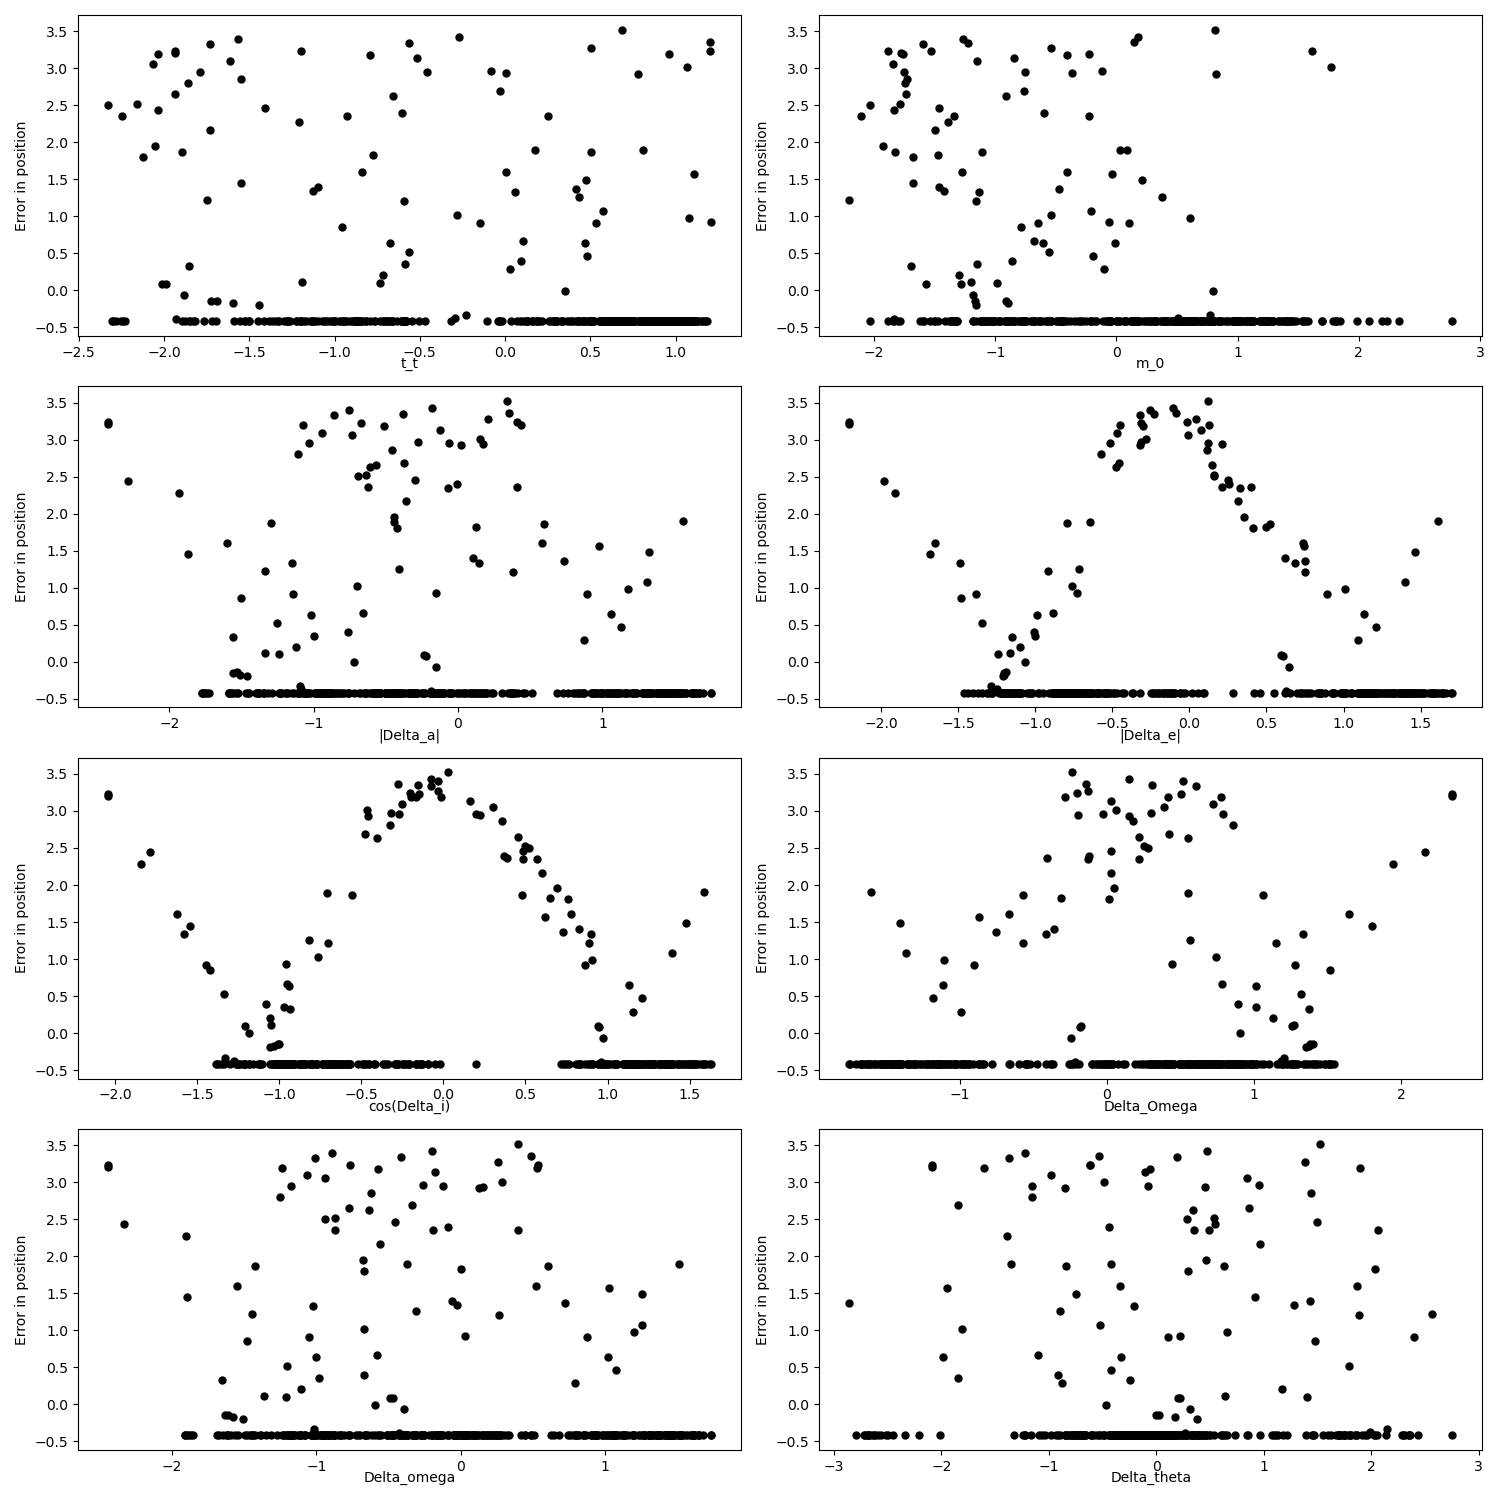
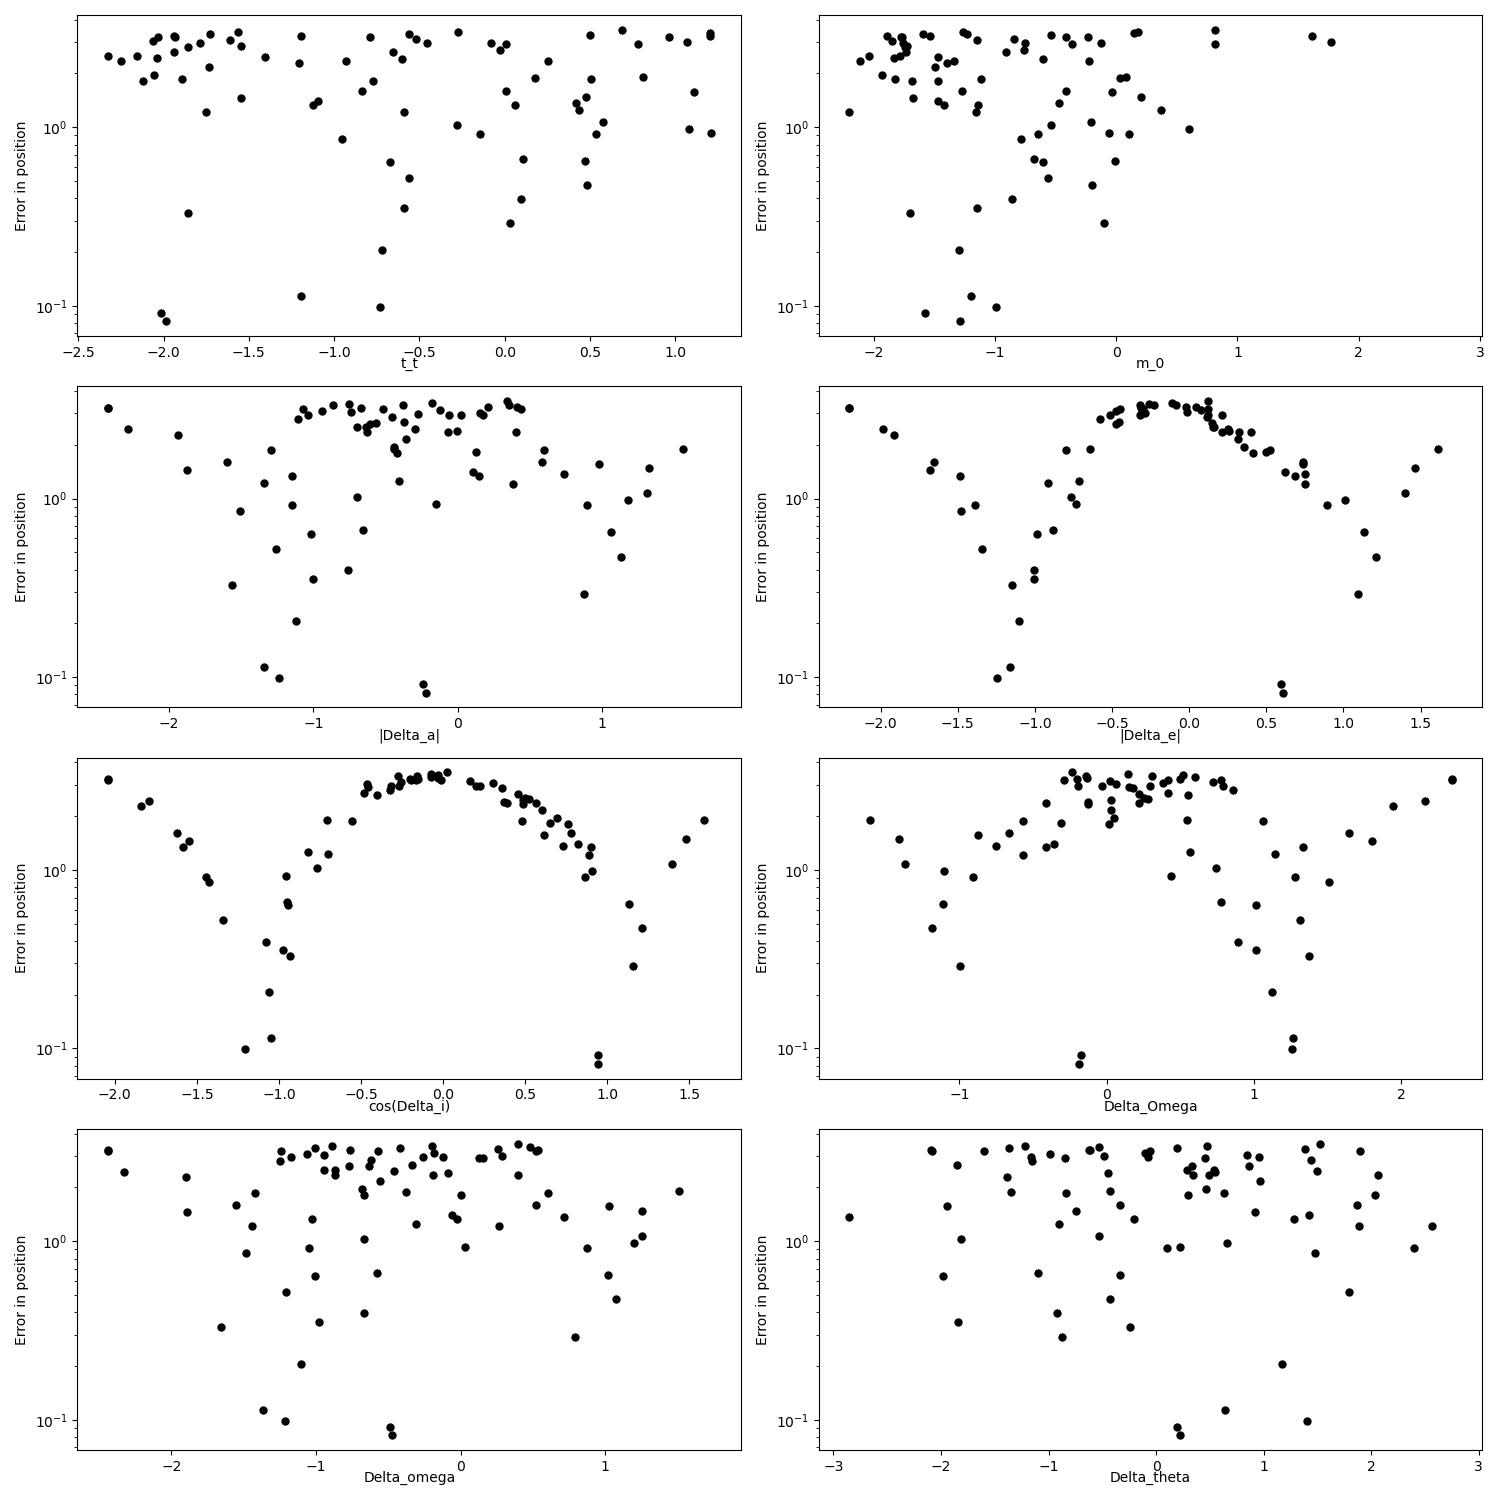
Plots modified

diff --git a/TrainingDataKeras.py b/TrainingDataKeras.py
@@ -4,7 +4,7 @@ os.environ['TF_CPP_MIN_LOG_LEVEL'] = '3'  # or any {'0', '1', '2'}
 import tensorflow as tf
 from tensorflow import keras
 from sklearn.metrics import roc_auc_score, accuracy_score
-from sklearn.preprocessing import MinMaxScaler, StandardScaler
+from sklearn.preprocessing import MinMaxScaler, StandardScaler, Normalizer
 
 import numpy as np
 import pandas as pd
@@ -15,8 +15,9 @@ from math import floor, ceil
 import AstroLibraries.AstroLib_Basic as AL_BF 
 import LoadConfigFiles as CONF
 
-ANN = CONF.ANN()
+ANN = CONF.ANN_reg()
 ANN_train = ANN.ANN_train
+ANN_datab = ANN.ANN_datab
 
 FIT = CONF.Fitness_config()
 FIT_FEAS = FIT.FEAS
@@ -96,6 +97,7 @@ class Dataset:
             ax.plot(self.input_data_std[:,i] , self.error_std[:, 0], 'ko', markersize = 5)
             ax.set_xlabel(self.labels[i+7], labelpad = -2)
             ax.set_ylabel("Error in position")
+            plt.yscale("log")
 
         plt.tight_layout()
         plt.savefig("./databaseANN/ErrorIncluded/Inputs_ErrorPosition_std.png", dpi = 100)
@@ -108,6 +110,7 @@ class Dataset:
             ax.plot(self.input_data_std[:,i] , self.error_std[:, 1], 'ko', markersize = 5)
             ax.set_xlabel(self.labels[i+7], labelpad = -2)
             ax.set_ylabel("Error in velocity")
+            plt.yscale("log")
 
         plt.tight_layout()
         plt.savefig("./databaseANN/ErrorIncluded/Inputs_ErrorVelocity_std.png", dpi = 100)
@@ -127,9 +130,20 @@ class Dataset:
 
         # print(self.error[0:5,:])
         # Standarization of the error
-        self.scaler = StandardScaler()
-        self.scaler.fit(self.error)
-        self.error_std = self.scaler.transform(self.error) 
+        if ANN_datab['scaling'] == 0:
+            self.scaler = MinMaxScaler()
+            self.scaler.fit(self.error)
+            self.error_std = self.scaler.transform(self.error) 
+
+        elif ANN_datab['scaling'] == 1:
+            self.scaler = StandardScaler()
+            self.scaler.fit(self.error)
+            self.error_std = self.scaler.transform(self.error) 
+        
+        elif ANN_datab['scaling'] == 2:
+            self.scaler = Normalizer()
+            transformer = Normalizer(0).fit
+        
 
     def inverseStandardizationError(self, x):
         x2 = self.scaler.inverse_transform(x)

diff --git a/GenerateTrainingDataFromOpt.py b/GenerateTrainingDataFromOpt.py
@@ -45,7 +45,7 @@ if __name__ == "__main__":
     ####################
     # CREATION OF RANDOM POPULATION
     ####################
-    nsamples = 1000 # number of training samples. 
+    nsamples = 5000 # number of training samples. 
     samples_Lambert = np.zeros((nsamples, len(SF.bnds)))
 
     ####################
@@ -58,7 +58,7 @@ if __name__ == "__main__":
         samples_Lambert[:, decv] = np.random.uniform(low = SF.bnds[decv][0], \
             high = SF.bnds[decv][1], size = nsamples)
     
-    Lambert = True
+    Lambert = False # Use lambert or not
     if Lambert == True:
         # Lambert for calculation of the velocity vectors 
         earthephem = pk.planet.jpl_lp('earth')
@@ -147,7 +147,7 @@ if __name__ == "__main__":
         print("-------------------------------")
         sample = sample_inputs[i_sample, :]
         fvalue = Fit.calculateFeasibility(sample, printValue = True)
-        # Fit.savetoFile() # saves the current values
+        Fit.savetoFile() # saves the current values
         
         Fit.printResult()
         

diff --git a/ANN_reg.py b/ANN_reg.py
@@ -224,10 +224,10 @@ if __name__ == "__main__":
     ###############################################
     # CREATE AND TRAIN CLASS NETWORK
     ###############################################
-    # perceptron = ANN_reg(dataset_np)
-    # perceptron.get_traintestdata(traindata, testdata)
-    # perceptron.training()
-    # perceptron.plotTraining()
+    perceptron = ANN_reg(dataset_np)
+    perceptron.get_traintestdata(traindata, testdata)
+    perceptron.training()
+    perceptron.plotTraining()
     
     # print("EVALUATE")
     # # predictions = perceptron.predict(fromFile=True, rescale = False)

diff --git a/LoadConfigFiles.py b/LoadConfigFiles.py
@@ -58,5 +58,6 @@ class ANN_reg:
         with open("./confFiles/ANN_reg.yml") as file:
             ANN_config = yaml.load(file, Loader = yaml.FullLoader)
         
+        self.ANN_datab = ANN_config['Database']
         self.ANN_archic = ANN_config['Architecture']
         self.ANN_train = ANN_config['Training']
